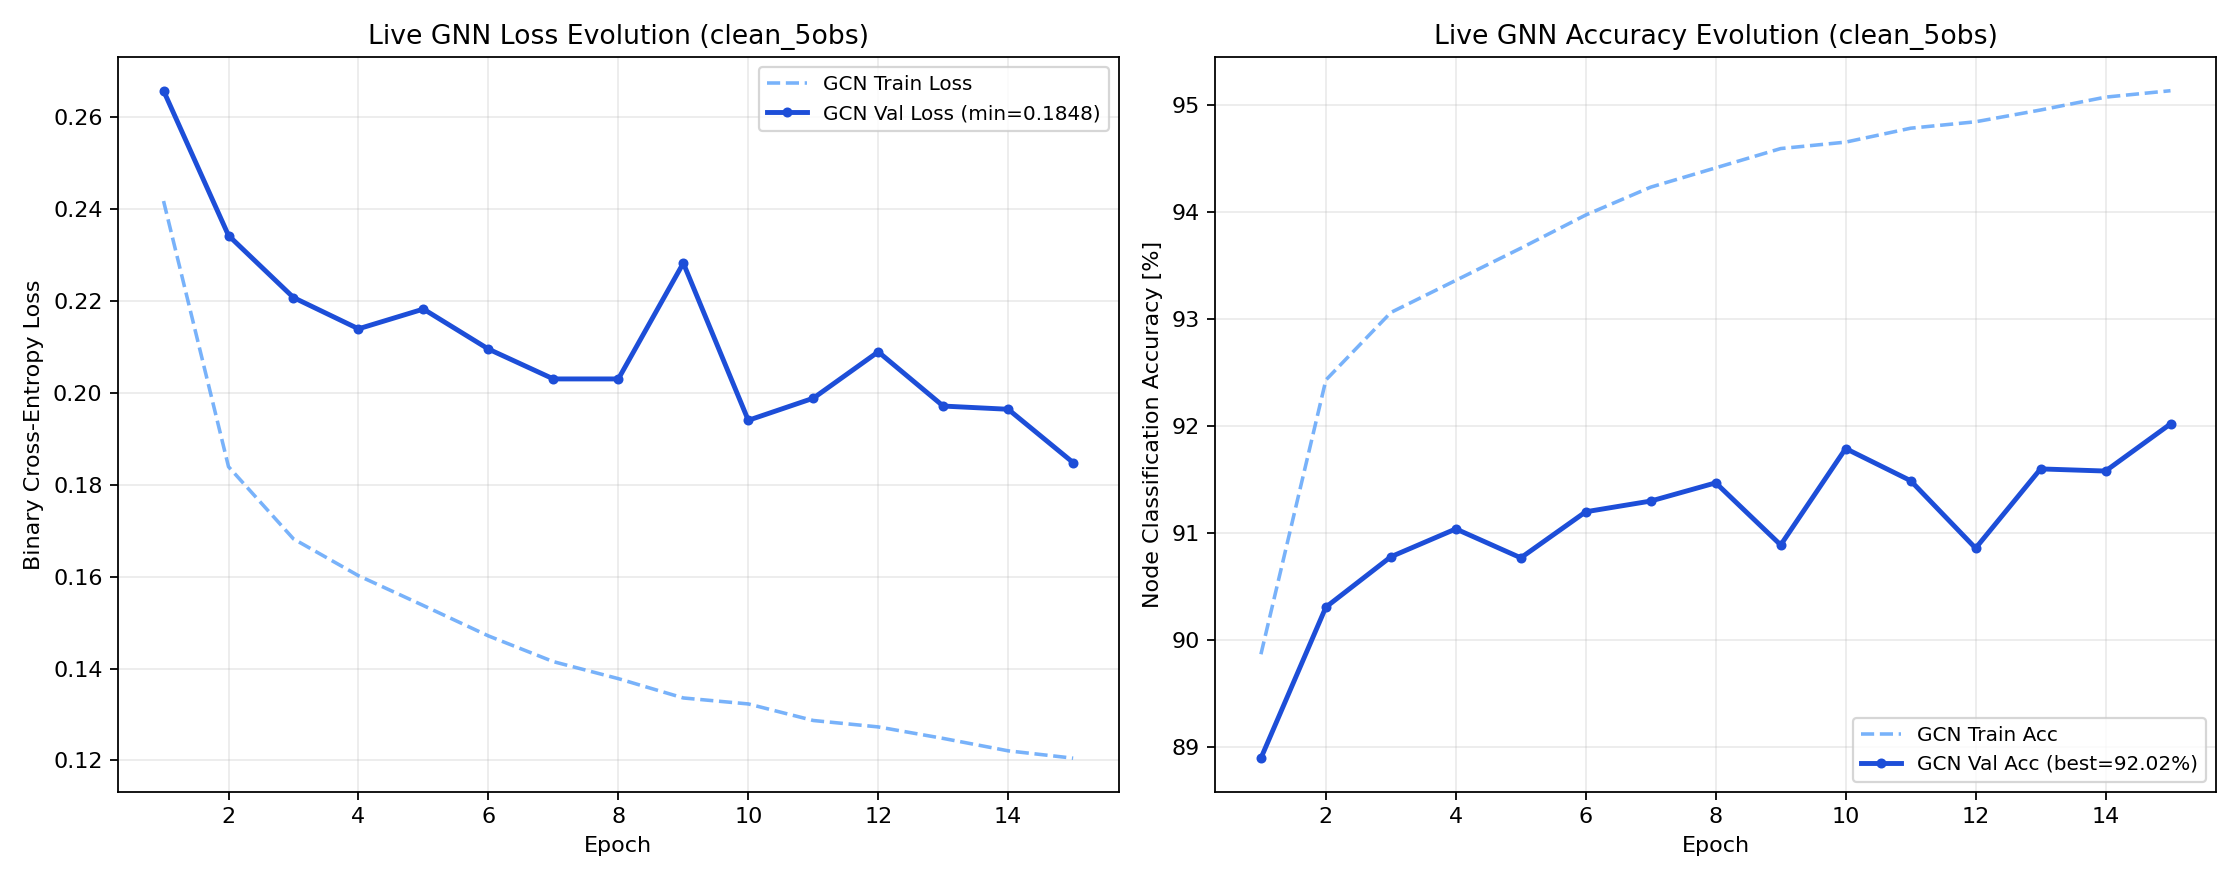
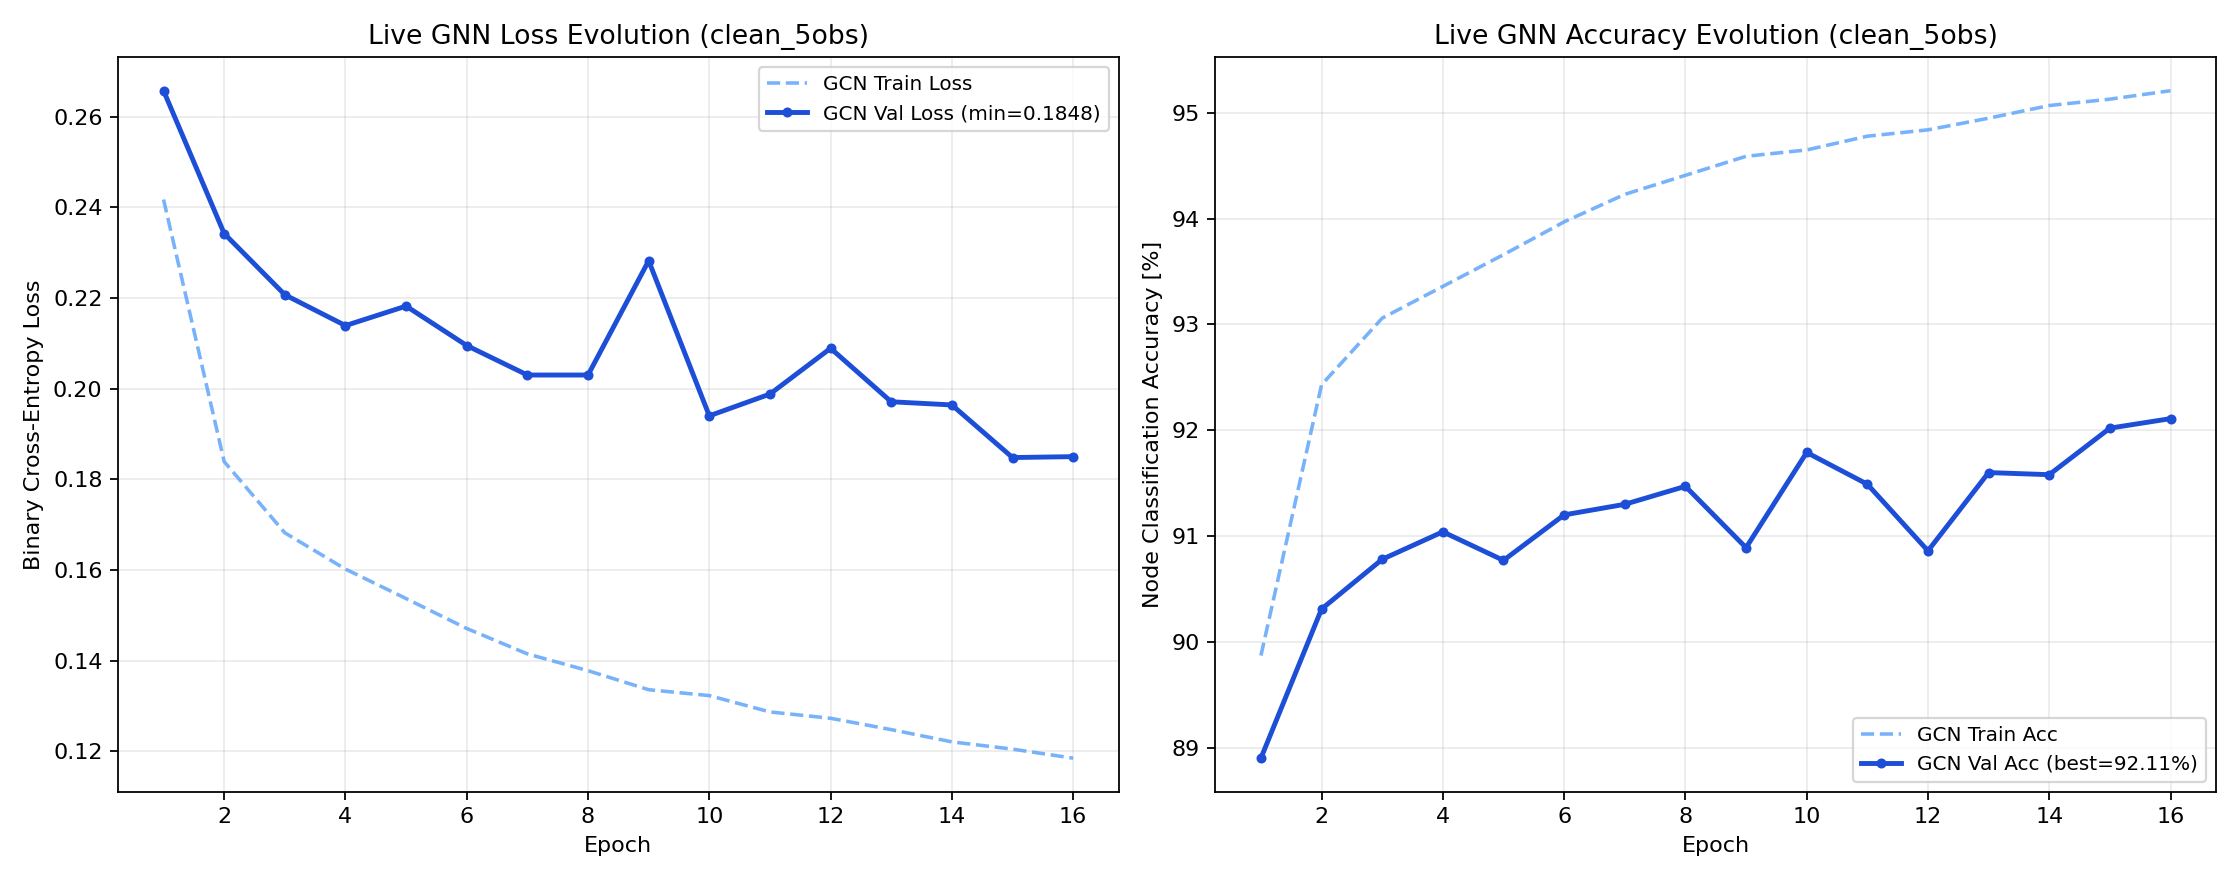
Update Study 2 live status and figures (2026-11-09 05:38)

diff --git a/LIVE_STATUS.md b/LIVE_STATUS.md
@@ -1,25 +1,25 @@
 # Live Pipeline Status on Jed
 
 ```text
-[2026-11-09 05:33:15] Study 2 Pipeline Status on Jed
+[2026-11-09 05:38:24] Study 2 Pipeline Status on Jed
 - Step 1 (Plummer ICs): 81 / 81 ready
 - Step 2 (SWIFT Runs): 81 / 81 completed (101 snapshots)
 - Step 3 (Observables): Labels=81/81 | Clean=81/81 | GaiaNoisy=81/81
 - Step 4 (5D Graphs): Clean=81/81 | GaiaNoisy=81/81
 - Step 5/6 Live GNN Training Progress:
-  * clean_5obs/training_metrics_gcn_clean.log: Ep 015 | Train 0.1205 (95.13%) | Val 0.1848 (92.02%, Best=92.02%) | Test=In progress
+  * clean_5obs/training_metrics_gcn_clean.log: Ep 016 | Train 0.1185 (95.21%) | Val 0.1850 (92.11%, Best=92.11%) | Test=In progress
 
 SLURM Queue:
 JOBID  PARTITION                   NAME   ST       TIME  NODES NODELIST(REASON)
 40998767_[0-4%   academic      Study2_Step6_4Obs   PD       0:00      2 (Dependency)
-      40998766   academic   Study2_Step5_Train81    R   13:03:27      2 jst[072,076]
+      40998766   academic   Study2_Step5_Train81    R   13:08:36      2 jst[072,076]
 ```
 
 ## Live Neural Network Training Metrics
 
 | Experiment | Architecture | Latest Epoch | Train Loss | Train Acc | Val Loss | Val Acc | Best Val Acc | Test Acc | Test F1 |
 | :--- | :---: | :---: | :---: | :---: | :---: | :---: | :---: | :---: | :---: |
-| `clean_5obs` | **GCN** | 15 | 0.1205 | 95.13% | 0.1848 | 92.02% | **92.02%** | **In progress** | - |
+| `clean_5obs` | **GCN** | 16 | 0.1185 | 95.21% | 0.1850 | 92.11% | **92.11%** | **In progress** | - |
 
 ## Real-Time GNN Learning Curves (Loss & Accuracy Evolution)
 
